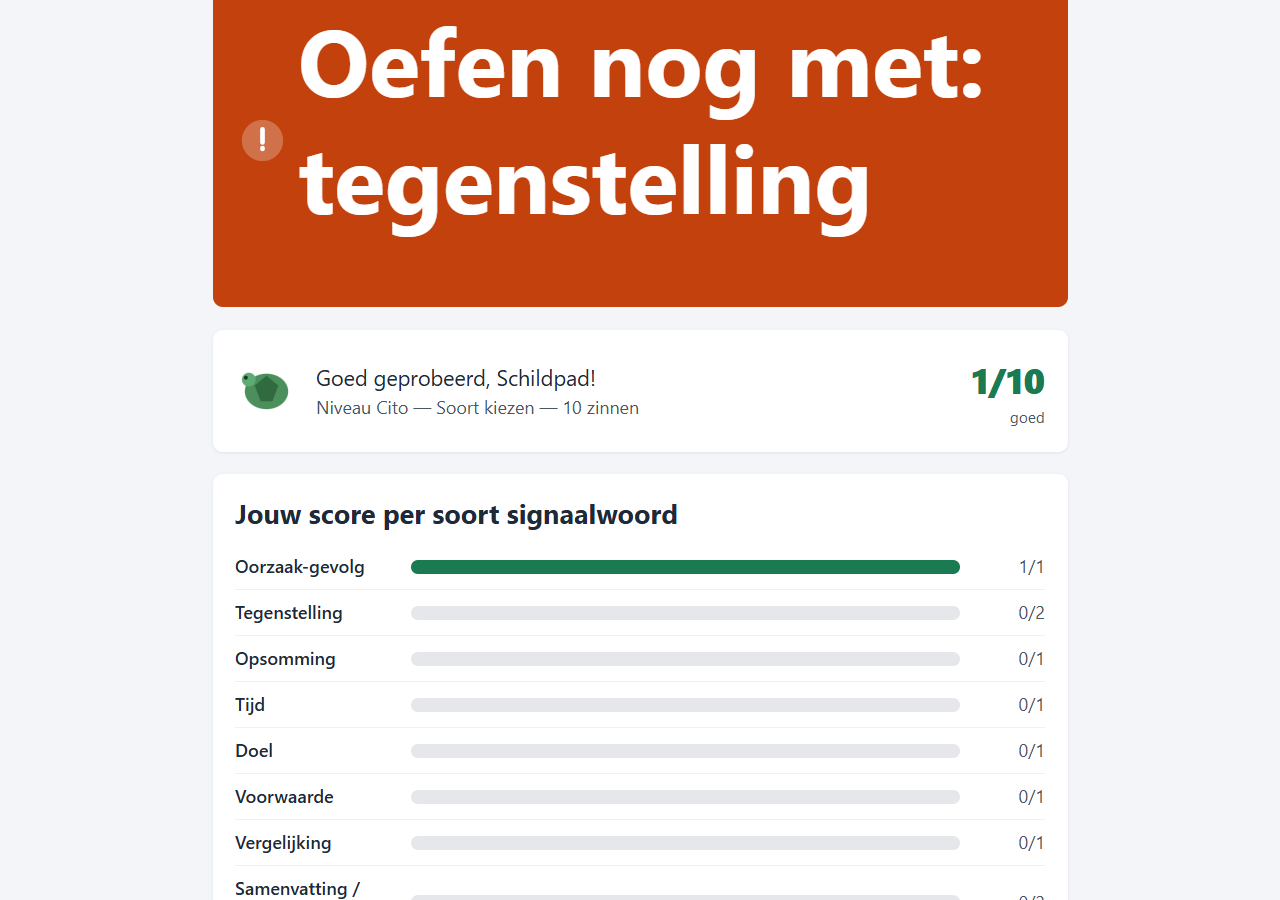
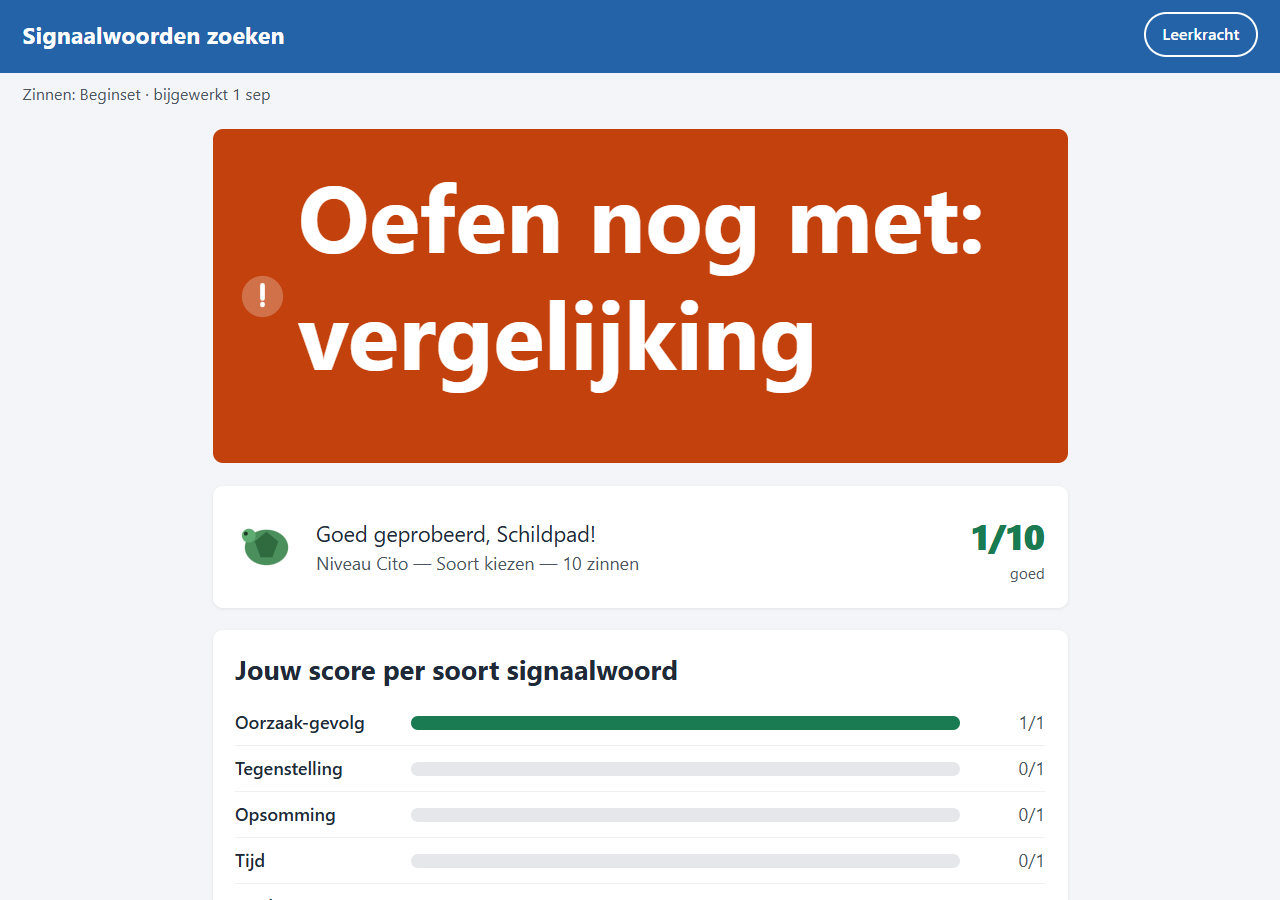
chore: versie 1.3.0 en screenshots opnieuw gegenereerd

diff --git a/app/sw.js b/app/sw.js
@@ -1,7 +1,7 @@
 // Klassieke (niet-module) service worker: cachet de app-bestanden zodat alles ook
 // zonder internet werkt, en zodat de app blijft werken als onze eigen website plat ligt.
 // VERSIE moet gelijk zijn aan js/versie.js (bewaakt door tests/unit/sw.test.mjs).
-const VERSIE = '1.2.0';
+const VERSIE = '1.3.0';
 const CACHE_NAAM = `signaalwoorden-${VERSIE}`;
 
 // Exact de bestanden onder app/ (plus './' voor de map zelf). Bij elke wijziging aan

diff --git a/app/js/versie.js b/app/js/versie.js
@@ -1,4 +1,4 @@
 // Eén plek voor het versienummer. sw.js heeft dezelfde string (los gehouden
 // omdat een service worker geen ES-module-import van buiten zijn eigen script mag doen
 // zonder extra complexiteit); sw.test.mjs bewaakt dat ze gelijk blijven.
-export const VERSIE = '1.2.0';
+export const VERSIE = '1.3.0';
